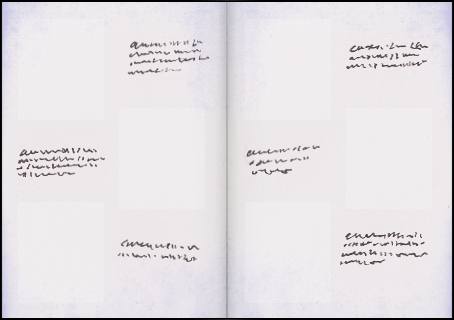
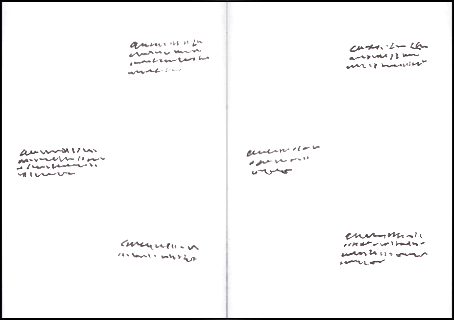
Add mouse/touch click support throughout the UI
- Select screen: click cover to switch, click selected to enter
- Album browsing: click page-turn arrows, legend READ/VIEW buttons,
  and photo slots (first click moves cursor, second click opens viewer)
- Photo viewer: click photo or SHIFT READ to read, click arrow zones
  (with extended hit area for mobile) to navigate, click background
  to exit; any click during message advances it
- Fix scene centering when window is narrow: add flex: none to #scene
  so flexbox doesn't shrink its 640x480 DOM box below the JS layout
  assumptions, and reserve top space for the fixed legend bar in
  game-viewport when in-album so the scene centers in the visible area
- Fix music toggle visibility: only show on select screen

diff --git a/index.html b/index.html
@@ -49,6 +49,8 @@
     transform-origin: center center;
     z-index: 99;
   }
+  /* When not on select screen, let clicks pass through to the game viewport */
+  body:not(.on-select) #select-stage { pointer-events: none; }
   /* ── Album select ── */
   #album-select {
     position: absolute; inset: 0; z-index: 100;
@@ -87,6 +89,7 @@
   .album-cover-btn {
     text-align: center;
     transition: transform 0.2s;
+    cursor: pointer;
   }
   .album-cover-btn.selected { transform: scale(1.08); }
   .album-cover-btn canvas { height: 240px; width: auto; }
@@ -143,37 +146,43 @@
     position: fixed; inset: 0; z-index: 10;
     display: none; align-items: center; justify-content: center;
   }
+  /* When in album, reserve top space for the fixed legend bar so the scene centers below it */
+  body.in-album #game-viewport { top: calc(30px * var(--scale, 1)); }
   #scene {
     position: relative;
     width: 640px; height: 480px;
+    flex: none; /* prevent flexbox from shrinking the 640x480 DOM box */
     transform-origin: center center;
     overflow: visible;
   }
 
   /* ── Legend bar (top HUD) ── */
+  /* Legend bar is fixed to the viewport top (full width), scales its height/text via --scale */
   #legend-bar {
-    position: absolute; top: 0; left: -600px;
-    width: 1840px; height: 30px;
+    position: fixed; top: 0; left: 0; right: 0;
+    height: calc(30px * var(--scale, 1));
     background: #000;
-    border-bottom: 3px solid #fff;
-    display: flex; align-items: center; justify-content: space-between;
-    padding: 0 715px;
+    border-bottom: calc(3px * var(--scale, 1)) solid #fff;
+    display: none;
+    align-items: center; justify-content: center;
     z-index: 30;
     transition: opacity 0.3s, transform 0.3s;
   }
-  #legend-bar::after {
-    content: '';
-    position: absolute;
-    bottom: -4px; left: 0; right: 0;
-    height: 1px;
-    background: #000;
+  body.in-album #legend-bar { display: flex; }
+  #legend-bar-inner {
+    width: calc(410px * var(--scale, 1));
+    display: flex; align-items: center; justify-content: space-between;
   }
   .legend-item {
-    display: flex; align-items: center; gap: 6px;
-    color: #fff; font-size: 23px; letter-spacing: 1px;
+    display: flex; align-items: center;
+    gap: calc(6px * var(--scale, 1));
+    color: #fff;
+    font-size: calc(23px * var(--scale, 1));
+    letter-spacing: calc(1px * var(--scale, 1));
+    cursor: pointer;
   }
   .legend-icon {
-    height: 24px;
+    height: calc(24px * var(--scale, 1));
     image-rendering: pixelated;
     vertical-align: middle;
   }
@@ -197,6 +206,7 @@
   .photo-slot {
     position: absolute;
     width: 86px; height: 101px;
+    cursor: pointer;
   }
   .photo-slot img { width: 100%; height: 100%; }
   /* Slow fade-in for the just-discovered easter egg photo */
@@ -236,7 +246,9 @@
     align-items: center; justify-content: center;
     gap: 1px;
     transition: opacity 0.3s;
+    cursor: pointer;
   }
+  .page-turn-group.disabled { pointer-events: none; cursor: default; }
   /* Key icon image (24x24 from game assets) */
   .page-key-icon {
     width: 24px; height: 24px;
@@ -273,12 +285,12 @@
     top: 16px; left: 16px;
     width: 40px; height: 40px;
     display: none;
+    align-items: center; justify-content: center;
     background: rgba(0,0,0,0.6);
     border: 2px solid rgba(255,255,255,0.3);
     border-radius: 4px;
     z-index: 200;
     cursor: pointer;
-    display: flex; align-items: center; justify-content: center;
   }
   #music-toggle:hover { background: rgba(0,0,0,0.85); border-color: rgba(255,255,255,0.6); }
   #music-toggle svg { width: 22px; height: 22px; }
@@ -348,6 +360,13 @@
     z-index: 40;
     transition: transform 0.25s ease-out, opacity 0.25s ease-out;
     will-change: transform, opacity;
+    cursor: pointer;
+  }
+  /* Extended invisible hit zone around each arrow (mobile-friendly) */
+  .viewer-arrow-box::before {
+    content: '';
+    position: absolute;
+    top: -22px; bottom: -22px; left: -22px; right: -22px;
   }
   .viewer-arrow-box.no-transition { transition: none !important; }
   #viewer-arrow-left { top: 50%; left: 80px; transform: translateY(calc(-50% - 60px)) translateX(-380px); }
@@ -361,6 +380,7 @@
     display: flex; align-items: center; gap: 8px;
     z-index: 40;
     transition: opacity 0.25s ease;
+    cursor: pointer;
   }
   #shift-read-prompt .legend-icon { height: 24px; position: relative; top: 6px; left: -3px; }
   #shift-read-prompt span {
@@ -391,7 +411,7 @@
     line-height: 29px;
     z-index: 50;
     display: none;
-    height: 110px;
+    min-height: 110px;
   }
   #message-box.has-face {
     padding-left: 126px;
@@ -523,19 +543,21 @@
   <div class="music-slash"></div>
 </div>
 
+<!-- Legend HUD bar (fixed at window top, independent of scene positioning) -->
+<div id="legend-bar">
+  <div id="legend-bar-inner">
+    <div class="legend-item" id="legend-read">
+      READ: <img class="legend-icon" src="assets/ui/kb_shift.png" alt="SHIFT">
+    </div>
+    <div class="legend-item" id="legend-view">
+      VIEW: <img class="legend-icon" src="assets/ui/kb_z.png" alt="Z">
+    </div>
+  </div>
+</div>
+
 <!-- Game Viewport -->
 <div id="game-viewport">
   <div id="scene">
-    <!-- Legend HUD bar -->
-    <div id="legend-bar">
-      <div class="legend-item" id="legend-read">
-        READ: <img class="legend-icon" src="assets/ui/kb_shift.png" alt="SHIFT">
-      </div>
-      <div class="legend-item" id="legend-view">
-        VIEW: <img class="legend-icon" src="assets/ui/kb_z.png" alt="Z">
-      </div>
-    </div>
-
     <!-- Album book -->
     <div id="album-book">
       <img id="book-bg" src="" alt="">
@@ -856,6 +878,7 @@ const $viewport = document.getElementById('game-viewport');
 const $scene = document.getElementById('scene');
 const $legend = document.getElementById('legend-bar');
 const $legendRead = document.getElementById('legend-read');
+const $legendView = document.getElementById('legend-view');
 const $book = document.getElementById('album-book');
 const $bookBg = document.getElementById('book-bg');
 const $pageOverlay = document.getElementById('page-text-overlay');
@@ -1053,12 +1076,17 @@ function startLoop() {
 //  Viewport scaling
 // ═══════════════════════════════════════════════════
 function updateScale() {
-  // Album view: letterbox (fit)
-  const scale = Math.min(
-    window.innerWidth / 640,
-    window.innerHeight / 480
-  );
+  // Album view: letterbox (fit). When in-album, the legend bar at the top
+  // reserves `30px * scale` of vertical space, so subtract it from available height.
+  // Legend height depends on scale, so iterate once: estimate, compute legend, re-solve.
+  const inAlbum = document.body.classList.contains('in-album');
+  let scale = Math.min(window.innerWidth / 640, window.innerHeight / 480);
+  if (inAlbum) {
+    const legendH = 30 * scale;
+    scale = Math.min(window.innerWidth / 640, (window.innerHeight - legendH) / 480);
+  }
   $scene.style.transform = `scale(${scale})`;
+  document.documentElement.style.setProperty('--scale', scale);
 
   // Select screen: cover (fill + crop) but capped at 1 — never grow beyond natural size
   const selectScale = Math.min(1, Math.max(
@@ -1107,6 +1135,77 @@ window.addEventListener('DOMContentLoaded', () => {
       const dir = Number(arrow.dataset.dir);
       changeAlbumStage(albumKey, dir);
     });
+  });
+
+  // Click album cover: first click selects, second click (already-selected) enters
+  document.querySelectorAll('.album-cover-btn').forEach((btn, i) => {
+    btn.addEventListener('click', (e) => {
+      if (state !== 'select' || animating) return;
+      if (selectIdx === i) {
+        openAlbum(i === 0 ? 'dreamworld' : 'faraway');
+      } else {
+        selectIdx = i;
+        updateSelectCursor();
+      }
+    });
+  });
+
+  // Page-turn arrow clicks (disabled class removes pointer-events via CSS)
+  $pageTurnL.addEventListener('click', () => {
+    if (state !== 'browsing' || animating) return;
+    turnPage(-1);
+  });
+  $pageTurnR.addEventListener('click', () => {
+    if (state !== 'browsing' || animating) return;
+    turnPage(1);
+  });
+
+  // Legend button clicks (hidden items don't receive pointer events)
+  $legendRead.addEventListener('click', () => {
+    if (state !== 'browsing' || animating) return;
+    const bnum = photoNumAtIdx(page * 6 + cursorIdx);
+    if (bnum && photoHasText(bnum - 1)) showMessage(album.texts[bnum - 1]);
+  });
+  $legendView.addEventListener('click', () => {
+    if (state !== 'browsing' || animating) return;
+    startViewing();
+  });
+
+  // Photo slot clicks: first click moves cursor, second click (already selected) opens viewer
+  $slots.addEventListener('click', (e) => {
+    if (state !== 'browsing' || animating) return;
+    const slot = e.target.closest('.photo-slot');
+    if (!slot) return;
+    const idx = Number(slot.dataset.slotIdx);
+    if (cursorIdx === idx) {
+      startViewing();
+    } else {
+      cursorIdx = idx;
+      updateCursor();
+    }
+  });
+
+  // Fullscreen viewer + message clicks (delegated on #scene)
+  $scene.addEventListener('click', (e) => {
+    // In reading mode, any click advances the message
+    if (state === 'message') {
+      advanceMessage();
+      return;
+    }
+    if (state !== 'viewing' || animating) return;
+
+    const t = e.target;
+    // Arrow clicks (extended hit area via ::before pseudo-element bubbles here)
+    if (t.closest && t.closest('#viewer-arrow-left')) { slideViewingPhoto(-1); return; }
+    if (t.closest && t.closest('#viewer-arrow-right')) { slideViewingPhoto(1); return; }
+    // Photo or SHIFT READ prompt → read (if text)
+    if (t === $viewerPhoto || (t.closest && t.closest('#shift-read-prompt'))) {
+      const vnum = photoNumAtIdx(viewingIdx);
+      if (vnum && photoHasText(vnum - 1)) showMessage(album.texts[vnum - 1]);
+      return;
+    }
+    // Background/empty → exit
+    endViewing();
   });
 });
 
@@ -1245,6 +1344,9 @@ function openAlbum(key) {
     document.getElementById('select-bg').style.display = 'none';
     document.getElementById('select-gif').style.display = 'none';
     $viewport.style.display = 'flex';
+    // Mark in-album BEFORE updateScale so it accounts for the legend bar height
+    document.body.classList.remove('on-select');
+    document.body.classList.add('in-album');
     updateScale();
 
     // Hide book until ready
@@ -1273,7 +1375,6 @@ function openAlbum(key) {
       updateCursor();
       $cursor.style.display = 'block';
       state = 'browsing';
-      document.body.classList.remove('on-select');
 
       // Wait for thumbnails + page overlay + parallax bg/fg
       const allImgs = [...$slots.querySelectorAll('img'), $pageOverlay];
@@ -1311,7 +1412,6 @@ function openAlbum(key) {
         });
       });
 
-      $legend.style.boxShadow = '0 -500px 0 500px #000';
       $legend.style.opacity = '1';
       $legend.style.transform = 'translateY(0)';
       updateLegend();
@@ -1341,6 +1441,7 @@ function renderPage() {
     const pos = SLOT_POS[i];
     const slot = document.createElement('div');
     slot.className = 'photo-slot';
+    slot.dataset.slotIdx = i;
     // Fade-in animation for the just-revealed easter egg thumbnail
     if (justDiscoveredEgg && album === ALBUMS.dreamworld && stageIdx.dreamworld === 0 && page === 1 && i === 5) {
       slot.classList.add('fade-in-egg');
@@ -1391,7 +1492,9 @@ function updateLegend() {
   if (state === 'browsing') {
     const num = photoNumAtIdx(page * 6 + cursorIdx);
     const hasText = num > 0 && photoHasText(num - 1);
+    const hasPhoto = slotHasPhoto(cursorIdx);
     $legendRead.style.visibility = hasText ? 'visible' : 'hidden';
+    $legendView.style.visibility = hasPhoto ? 'visible' : 'hidden';
 
     // Update photo info bar with date/title (first line of first segment)
     // Photo info bar disabled
@@ -1599,7 +1702,7 @@ function startViewing() {
 
   // Legend hides
   $legend.style.opacity = '0';
-  $legend.style.transform = 'translateY(-40px)';
+  $legend.style.transform = 'translateY(-100%)';
   $photoInfo.style.display = 'none';
 
   // Viewer arrows — start at final position but invisible, slide in together with photo
@@ -1611,7 +1714,9 @@ function startViewing() {
   $viewerArrowR.style.opacity = '0';
 
   // Show SHIFT READ prompt (index texts by photo number - 1)
-  $shiftRead.style.opacity = photoHasText(num - 1) ? '1' : '0';
+  const hasTextStart = photoHasText(num - 1);
+  $shiftRead.style.opacity = hasTextStart ? '1' : '0';
+  $shiftRead.style.pointerEvents = hasTextStart ? '' : 'none';
   $shiftRead.classList.toggle('has-outline', album.readOutline);
 
   // ── Debug frame-step mode ──
@@ -1806,10 +1911,12 @@ function updateViewerArrows() {
     ? 'translateY(calc(-50% - 60px)) translateX(0)'
     : 'translateY(calc(-50% - 60px)) translateX(-380px)';
   $viewerArrowL.style.opacity = hasPrev ? '1' : '0';
+  $viewerArrowL.style.pointerEvents = hasPrev ? '' : 'none';
   $viewerArrowR.style.transform = hasNext
     ? 'translateY(calc(-50% - 60px)) translateX(0)'
     : 'translateY(calc(-50% - 60px)) translateX(285px)';
   $viewerArrowR.style.opacity = hasNext ? '1' : '0';
+  $viewerArrowR.style.pointerEvents = hasNext ? '' : 'none';
 }
 
 function slideViewingPhoto(dir) {
@@ -1863,10 +1970,12 @@ function slideViewingPhoto(dir) {
   });
 
   updateViewerArrows();
-  const newShiftOpacity = photoHasText(num - 1) ? '1' : '0';
+  const hasTextNew = photoHasText(num - 1);
+  const newShiftOpacity = hasTextNew ? '1' : '0';
   if ($shiftRead.style.opacity !== newShiftOpacity) {
     $shiftRead.style.opacity = newShiftOpacity;
   }
+  $shiftRead.style.pointerEvents = hasTextNew ? '' : 'none';
 
   // Clean up old photo after animation
   setTimeout(() => {
@@ -1916,7 +2025,7 @@ function showMessage(boxes) {
     $cursor.style.transform = 'translateY(-55px)';
     setTimeout(() => { animating = false; }, 300);      // resume bob only after slide done
     $legend.style.opacity = '0';
-    $legend.style.transform = 'translateY(-40px)';
+    $legend.style.transform = 'translateY(-100%)';
     $pageTurnL.style.opacity = '0';
     $pageTurnR.style.opacity = '0';
     $photoInfo.style.display = 'none';
@@ -2125,6 +2234,8 @@ function goBackToSelect() {
     // Hidden behind black — switch everything
     state = 'select';
     document.body.classList.add('on-select');
+    document.body.classList.remove('in-album');
+    updateScale();
     album = null;
     $viewport.style.display = 'none';
     $viewer.classList.remove('active');
@@ -2138,7 +2249,6 @@ function goBackToSelect() {
     $parallax.style.backgroundImage = `url('assets/ui/Faraway_polaroidBG_FA_day.png')`;
     $parallax.style.backgroundPosition = '0 0';
     // Don't clear parallax-fg — keep it loaded/cached to avoid repaint delay next time
-    $legend.style.boxShadow = '';
     // Reset book transforms
     $book.style.transform = '';
     $book.style.opacity = '1';
